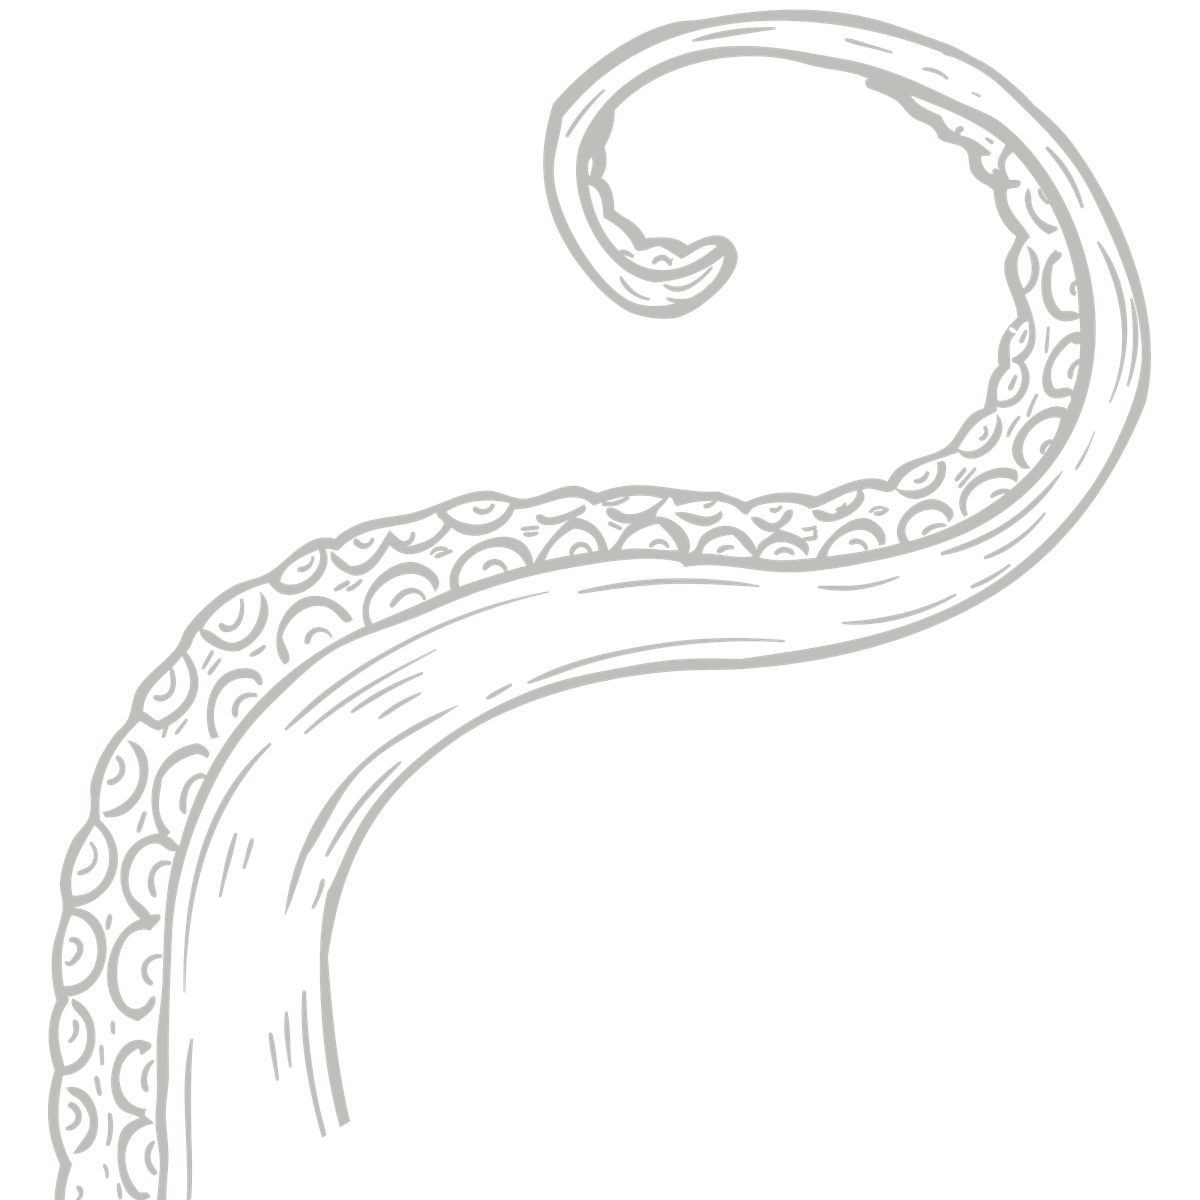
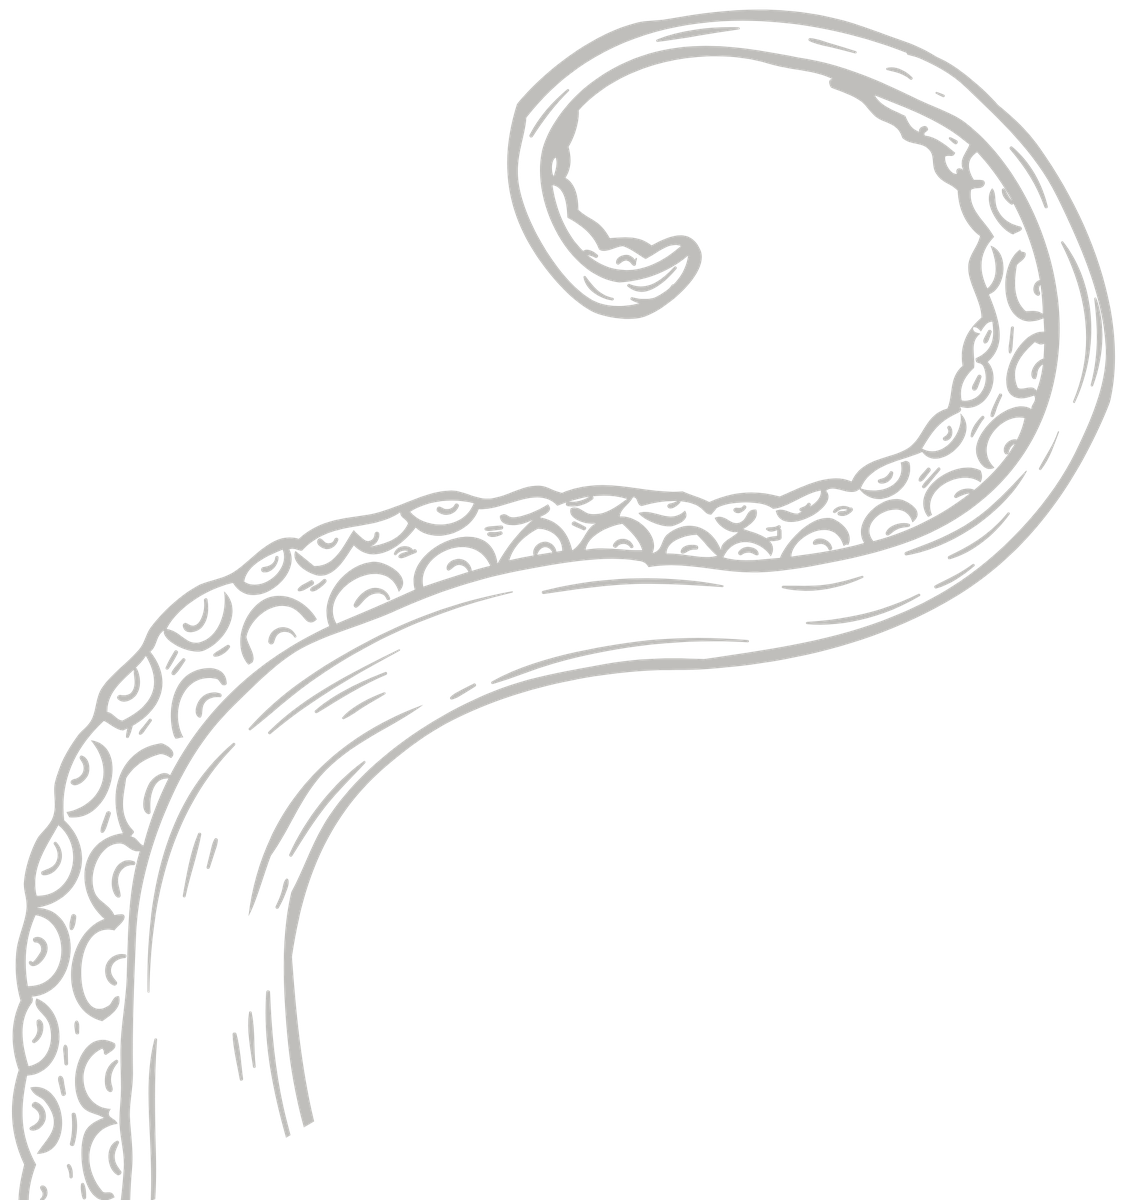
Tentacles shown whole, never cropped
Drawings trimmed to their content and fitted with object-fit: contain; each
column is sized from the drawing's proportions so it runs the section height
without cutting any part. Checked at 1024–1920px and on phones, EN and FR.

Claude-Session: https://claude.ai/code/session_01AzELQ1pckLxdyZQprvAzaM

diff --git a/css/styles.css b/css/styles.css
@@ -169,16 +169,18 @@ h1, h2, h3, p, ul, figure { margin: 0; }
 .service.art-left  { grid-template-columns: var(--cell-w) minmax(0, 1fr); }
 .service.art-right { grid-template-columns: minmax(0, 1fr) var(--cell-w); }
 
-/* Tentacles fill their whole column, from the bottom edge to the top of the section,
-   rise in when the section scrolls into view, then sway gently from their base.
+/* Tentacles are always shown whole (never cropped): the drawings are trimmed to their
+   content, the column is sized to the drawing's shape (js/main.js) so it runs the full
+   height of the section, and the image is fitted with object-fit: contain.
+   They rise in when the section scrolls into view, then sway gently from their base.
    Per-section tuning:
-   --pos    which part of the drawing to keep when the column is narrower than the art (object-position)
+   --pos    where the drawing sits in its column (object-position)
    --origin the point it pivots around (where the tentacle meets the bottom)
    --sway / --amp  speed and angle of the sway */
 .art-cell { position: relative; align-self: stretch; }
-.art { position: absolute; inset: 0 0 -2% 0; }   /* tucked under the bottom edge so the base never lifts */
+.art { position: absolute; inset: 3% 2% -1px 2%; }   /* a little room at the top and sides for the sway */
 .art img {
-  width: 100%; height: 100%; object-fit: cover; object-position: var(--pos, 50% 100%);
+  width: 100%; height: 100%; object-fit: contain; object-position: var(--pos, 50% 100%);
   transform-origin: var(--origin, 50% 100%);
   animation: sway var(--sway, 7s) ease-in-out var(--delay, 0s) infinite;
   opacity: 0; translate: 0 18%;
@@ -192,8 +194,8 @@ h1, h2, h3, p, ul, figure { margin: 0; }
   50%      { rotate: var(--amp, 2deg);            scale: 1 1.025; }
 }
 
-.service--blue  { --pos: 45% 100%; --origin: 45% 100%; --sway: 7s; }
-.service--cream { --pos: 35% 100%; --origin: 15% 100%; --sway: 8.5s; --amp: 1.4deg; --delay: -2s; }
+.service--blue  { --pos: 50% 100%; --origin: 45% 100%; --sway: 7s; }
+.service--cream { --pos: 50% 100%; --origin: 25% 100%; --sway: 8.5s; --amp: 1.4deg; --delay: -2s; }
 .service--navy  { --pos: 0% 100%;  --origin: 8% 100%;  --sway: 9s;   --delay: -4s; }
 
 .service-text { padding: 60px var(--gutter); max-width: 900px; container-type: inline-size; }
@@ -485,7 +487,7 @@ html[lang="fr"] .service h3 { line-height: 1.02; } /* service names are English 
   .founder-text p + p { margin-top: 1em; }
   .service { --cell-w: auto !important; }
   .service.art-left, .service.art-right { grid-template-columns: 1fr; min-height: 0; }
-  .art-cell { order: 2; height: 300px; pointer-events: none; }   /* below the text, never behind it; full width */
+  .art-cell { order: 2; height: 300px; pointer-events: none; }   /* below the text, never behind it; drawing shown whole */
   .service-text { position: relative; padding-block: 64px 12px; }
   :root { --stack-step: 16px; }
 

diff --git a/index.html b/index.html
@@ -92,7 +92,7 @@
     <span id="services" class="anchor"></span>
 
       <section class="service service--blue art-left stack-item" style="--stack:0">
-        <div class="art-cell" aria-hidden="true"><div class="art"><img src="images/tentacle-blue.png" alt="" /></div></div>
+        <div class="art-cell" aria-hidden="true"><div class="art"><img src="images/tentacle-blue.png" alt="" width="546" height="1200" /></div></div>
         <div class="service-text reveal">
           <h3 data-i18n="svc.ops.title">EVENT PRODUCTION &amp; OPERATIONS</h3>
           <p class="service-lead" data-i18n="svc.ops.lead">Major events, international events and agencies: we support organisers in coordinating their operations and integrating new technology solutions.</p>
@@ -120,11 +120,11 @@
             <li data-i18n="svc.corp.5">Overall coordination, supplier management and participant experience</li>
           </ul>
         </div>
-        <div class="art-cell" aria-hidden="true"><div class="art"><img src="images/tentacle-tech.png" alt="" /></div></div>
+        <div class="art-cell" aria-hidden="true"><div class="art"><img src="images/tentacle-tech.png" alt="" width="1127" height="1200" /></div></div>
       </section>
 
       <section class="service service--navy art-left stack-item" style="--stack:2">
-        <div class="art-cell" aria-hidden="true"><div class="art"><img src="images/tentacle-dark.png" alt="" /></div></div>
+        <div class="art-cell" aria-hidden="true"><div class="art"><img src="images/tentacle-dark.png" alt="" width="674" height="1195" /></div></div>
         <div class="service-text reveal">
           <h3 data-i18n="svc.sport.title">SPORT, OUTDOOR &amp; LIVE EXPERIENCES</h3>
           <p class="service-lead" data-i18n="svc.sport.lead">We support organisers of competitions and major sporting events, and create our own original sports and outdoor concepts, built around the experience.</p>

diff --git a/js/main.js b/js/main.js
@@ -18,17 +18,20 @@ document.addEventListener("keydown", (e) => { if (e.key === "Escape") setMenu(fa
 // Each section in .stack sticks at (--stack × --stack-step). If a section is
 // taller than the space below that point, it would freeze before its bottom
 // is visible, so we raise its sticky point (negative top) just enough.
-// ---- Tentacles: give each service's artwork all the room the text doesn't need ----
-// The text keeps a comfortable column (up to 860px); the tentacle column takes the rest,
-// but never wider than the section is tall, so the drawing always runs full height.
+// ---- Tentacles: size each column to its drawing so it runs the full section height ----
+// The drawing keeps its proportions (never cropped). Its column is as wide as the drawing
+// needs to be as tall as the section, as long as the text keeps a comfortable width.
 function sizeArt() {
   document.querySelectorAll(".service").forEach((s) => {
     s.style.removeProperty("--cell-w");
     if (innerWidth <= 760) return;              // phones: tentacle sits under the text (CSS)
+    const img = s.querySelector(".art img");
+    const ratio = (+img.getAttribute("width") / +img.getAttribute("height")) || 1;   // drawing proportions (HTML attributes)
     const W = s.clientWidth;
-    const minText = Math.min(860, W * 0.62);
+    const minText = Math.min(860, W * 0.6);
     for (let i = 0; i < 3; i++) {               // a few passes: column width changes the text height
-      const cell = Math.max(260, Math.min(W - minText, s.offsetHeight));
+      const needed = s.offsetHeight * 0.97 * ratio / 0.96 + 8;   // matches the .art insets
+      const cell = Math.max(220, Math.min(W - minText, needed));
       s.style.setProperty("--cell-w", `${Math.round(cell)}px`);
     }
   });
